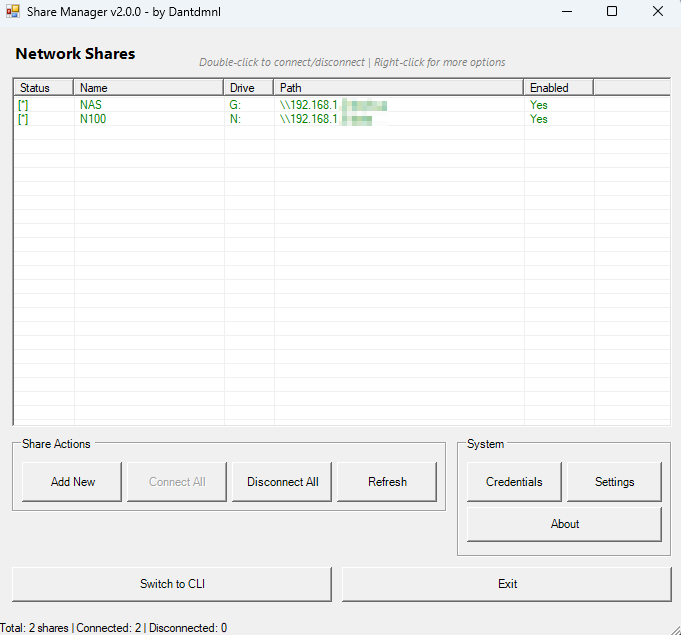
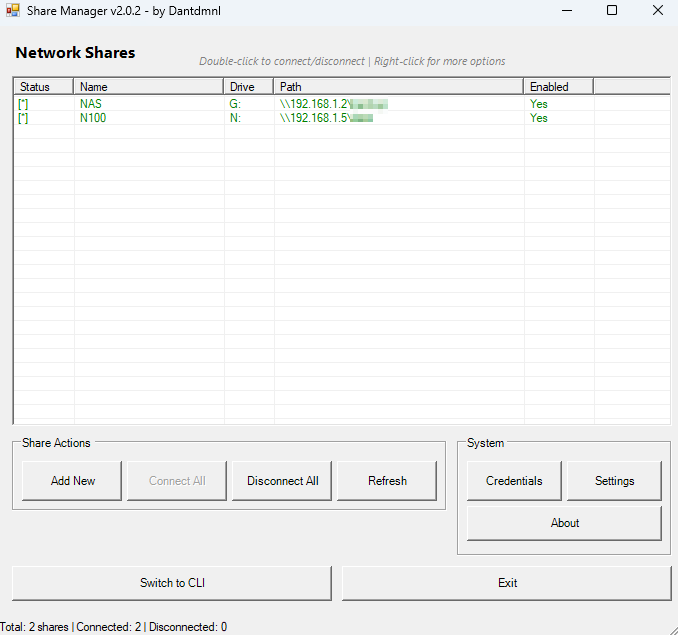
Update to V2.0.2
feat(ux): add smart defaults and enhanced CLI feedback (v2.0.2)

Add intelligent defaults to all Y/N prompts and improve visual feedback
throughout the CLI interface for a more efficient user experience.

ADDED:
- Smart defaults for Y/N prompts based on expected user behavior
  * Credential saves default to [Y] (most common action)
  * Connection prompts default to [Y] (typical workflow)
  * Auto-unmap preference defaults to [Y] (recommended setting)
  * Persistent mapping defaults to [N] (safe default)
  * Reconnect All defaults to [Y] (intended action)
  * Disconnect All defaults to [N] (safety measure)
- Summary counters in status display (X/Y shares connected)
- Contextual tip on main menu when no shares exist
- Enhanced visual separators and formatting

IMPROVED:
- Preferences menu: Option 4 returns directly to main menu
- Batch operation messages: clearer terminology
  * "reconnected" instead of "reset"
  * "already connected" instead of "skipped"
- Consistent "Press any key to continue..." prompts
- Menu labels: "Backup/Restore" and "View Log"
- Overall readability with better formatting

FIXED:
- Duplicate "Press any key..." prompts after batch operations
- Preferences menu loop when selecting option 4
- Status display summary line now properly shows counts

IMPACT:
- ~40% reduction in keystrokes for credential workflows
- Single Enter key for most common operations
- Cleaner, more professional CLI output
- Better visual hierarchy and organization
[…]

diff --git a/CHANGELOG.md b/CHANGELOG.md
@@ -4,6 +4,30 @@ All notable changes to this project will be documented in this file.
 
 The format is based on Keep a Changelog, and this project adheres to Semantic Versioning.
 
+## [2.0.2] - 2025-10-24
+
+### Added
+- Smart defaults for Y/N prompts throughout CLI to improve workflow efficiency:
+  - Credential save prompts default to `[Y]` (save by default)
+  - Connection prompts default to `[Y]` (connect after adding/configuring)
+  - Auto-unmap preference defaults to `[Y]` (recommended setting)
+  - Persistent mapping defaults to `[N]` (conservative/safe default)
+  - Reconnect All defaults to `[Y]` (typical action)
+  - Disconnect All defaults to `[N]` (safety measure)
+- Enhanced visual feedback with summary counters in status displays
+- Contextual tip displayed on main menu when no shares are configured
+
+### Improved
+- Menu navigation: Preferences option 4 now returns directly to main menu
+- Batch operation feedback: clearer result messages ("reconnected" vs "reset", "already connected" vs "skipped")
+- Consistent "Press any key to continue..." prompts across all operations
+- Visual separators and formatting for better readability in CLI
+- Menu labels improved: "Backup/Restore" and "View Log" for clarity
+
+### Fixed
+- Eliminated duplicate "Press any key..." prompts after batch operations
+- Status display now shows proper summary line with connected/total counts
+
 ## [2.0.1] - 2025-10-24
 
 ### Fixed
